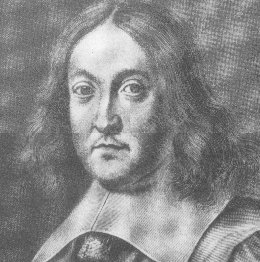
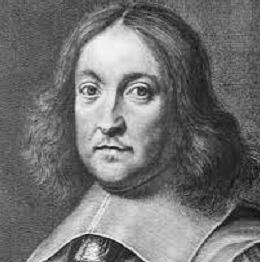
Bilder von fermat verbessert

diff --git a/zufallstuff.js b/zufallstuff.js
@@ -67,7 +67,7 @@ var txtfrac=["Fraktale","Mandelbrot"];
 var math=[
 '<a href="mathematiker/euler.html"><img src="/img/euler.jpg" class="b"></a>',
 '<a href="/mathematiker/newton.html"><img src="/img/newton.jpg" class="b"></a>',
-'<a href="/mathematiker/fermat.html"><img src="/img/fermat.jpg" class="b"></a>',
+'<a href="/mathematiker/fermat.html"><img src="/img/fermat.jpg" class="a"></a>',
 '<a href="/mathematiker/gauss.html"><img src="/img/gauss.jpg" class="b"></a>',
 '<a href="mathematiker/galois.html"><img src="/img/galois.jpg" class="b"></a>',
 '<a href="/mathematiker/goedel.html"><img src="/img/goedel.jpg" class="b"></a>',
